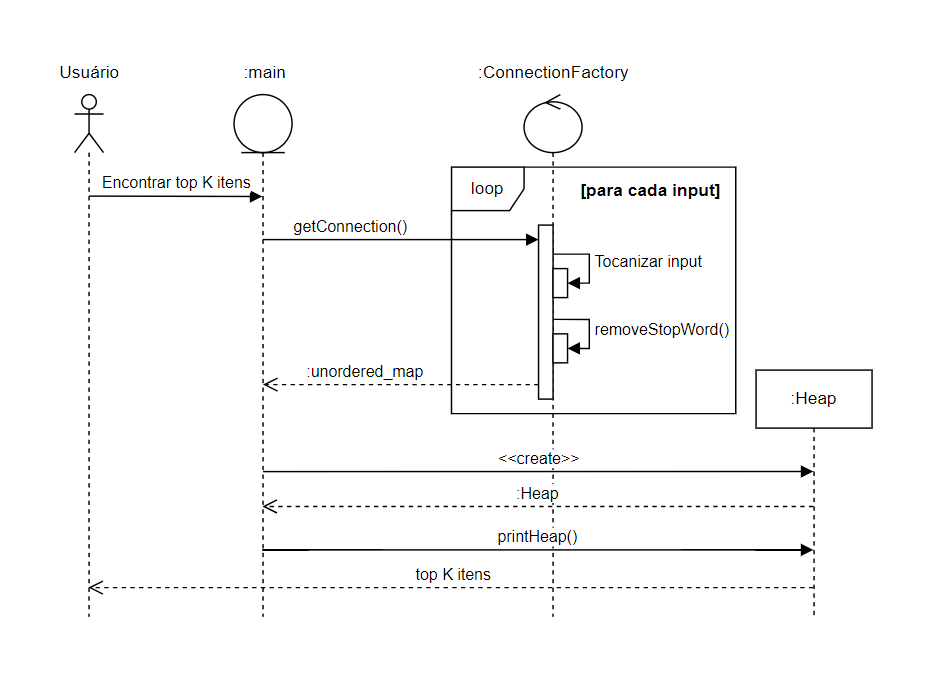
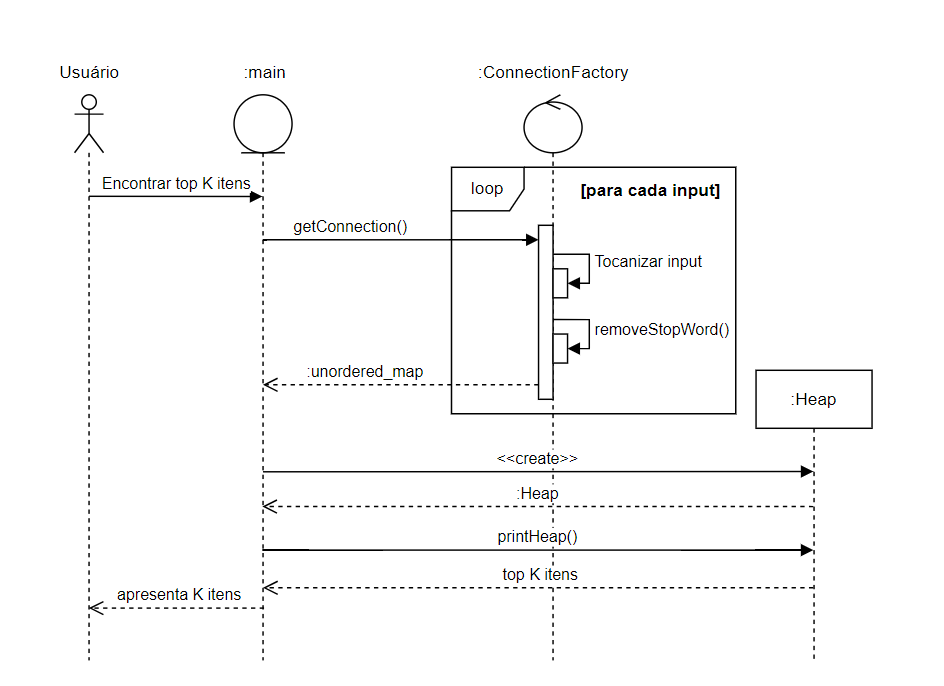
Commit_Luan-Update_readme

diff --git a/README.md b/README.md
@@ -32,75 +32,65 @@
     <h2>♟ Implementação</h2>
     <p>
         A questão apresentada nesse repositório é um exemplo clássico que pode ser solucionado utilizando-se hash e heap. Nesse sentido, utiliza-se o hash para contar a frequência de todos os itens, enquanto o heap se aplica na manutenção de uma lista dos <i>K</i> itens de maior valor.
-        </p>
-        <ul>
-            <li>
-                <div>
-                    <h3>Hash</h3>
-                    <p>
-                        As tabelas de dispersão ou tabelas hash, são estruturas projetadas para otimizar operações de busca por meio de indexação. Nessas tabelas, uma função de transformação é empregada para processar cada elemento de entrada, gerando assim uma chave correspondente. Essa chave é então usada para determinar a posição onde o elemento será armazenado na tabela.
-                    </p>
-                    <p>
-                        De forma geral, essa função hash é representada como <i>f( xy ) = [1, . . ., T]</i>, em que um subconjunto do conjunto de entrada, com tamanho <i>T</i>, é mapeado para a posição <i>xy</i> na tabela. É importante notar que existem várias maneiras de implementar essa função, tais como o método do resto da divisão, método do meio do quadrado, e entre outros.
-                    </p>
-                    <p>
-                        Neste projeto, a estutura de tabela hash escolhida foi a classe <a href="https://cplusplus.com/reference/unordered_map/unordered_map/" target="_blank"> std::unordered_map</a> da biblioteca padrão C++, a qual é uma boa opção para grandes conjuntos de dados em que a ordem de inserção não faz diferença. Apensar de ser uma estrtura simples de usar, suas funções podem variar de acordo com o compilador utilizado.
-                    </p>
-                    <p>
-                        No caso do GCC (compilador empregado nesse sistema), o unordered_map é considerado uma hash aberta, cuja a função de transformação é uma técnica chamada "hash combinado" que envolve a aplicação de uma série de operações de mistura (bitwise XOR, shift e multiplicação) para espalhar bem os bits da chave original e minimizar as chances de colisões.
-                    </p>
-                    <p>
-                        Enfim, com as condições adequadas ao conjunto de dados, o custo de uma tabela hash pode alcançar tempos de <b><i>θ( 1 )</i></b>, o qual se refere ao melhor tempo de execução / melhor caso. Em um caso médio teremos algo próximo de <b><i>θ( 1+N / T )</i></b> e no pior caso <b><i>θ( n )</i></b>.
-                    </p>
-                </div>
-            </li>
-            <li>
-                <div>
-                    <h3>Heap</h3>
-                    <p>
-                        A heap é um tipo abstrato de dados conhecido como fila de prioridades que armazena os elementos, cada um associado a uma determinada precedência. Esse modelo torna-se interessante para o projeto por possuir a particularidade de prover um acesso rápido ao elemento com a maior (ou menor) prioridade.
-                    </p>
-                    <p>
-                        Uma heap é frequentemente representada por um vetor (ou array) que simula uma árvore binária completa e ordenada. Dessa maneira, o primeiro elemento no vetor é sempre a raiz da árvore e cada nó pai tem dois nós filhos. Por exemplo, se o nó pai está no índice i, seus filhos estão nos índices <i>2 * i + 1</i> (filho esquerdo) e <i>2 * i + 2</i> (filho direito).
-                    </p>
-                    <p>
-                        Existem dois tipos principais de heaps: 
-                        <ol>
-                            <li>
-                                Max Heap (Heap Máximo): Neste tipo de heap, o valor de cada nó é maior ou igual ao valor de seus filhos. Isso significa que o elemento de maior prioridade está no topo da heap.
-                            </li>
-                            <li>
-                                Min Heap (Heap Mínimo): Neste tipo de heap, o valor de cada nó é menor ou igual ao valor de seus filhos. Isso significa que o elemento de menor prioridade está no topo da heap.
-                            </li>
-                        </ol>
-                    </p>
-                    <p>
-                        Em ultima análise, a propriedade fundamental de uma heap é que ela mantém essa ordenação parcial durante todas as operações de inserção e remoção. Isso permite que as operações de sejam eficientes, geralmente executadas em tempo <b><i>θ(log n)</i></b>, onde n é o número de elementos na heap.
-                    </p>
-                </div>
-            </li>
-        </ul>
-        <!-- • Crie uma tabela de dispersão (hash) para contar a frequência de cada elemento tokenizado da coleção de dados de entrada.
-        • Crie uma árvore de prioridades (heap) de tamanho k e insira os primeiros k elementos do
-        hash nela.
-        1. Para cada elemento restante na hash, compare a contagem com o menor valor do
-        heap.
-        2. Se a contagem for maior do que o menor valor da heap, remova o menor valor, insira
-        o novo elemento e refaça a estrutura.
-        3. Caso contrário, ignore o elemento e vá para o próximo.
-        • No final, a heap conterá os k elementos com maiores valores (frequências) da coleção
-        de dados. Então, imprima-os em ordem crescente.
-        Esse algoritmo é uma combinação eficiente do uso de hash para contar a frequência dos
-        elementos e heap para manter a lista dos k elementos com maiores valores. Sua complexidade,
-        caso implementado adequadamente, é de O(nlogk), onde n é o tamanho da coleção de dados
-        e k o número de itens mais relevantes. -->
-        <p>
-            Depois de conhecer as estruturas utilizadas nesse projeto
-        </p>
-        <p align="center">
-        <img src="img/img2.png">
-        <br><br><strong>Figura 2:</strong> Exemplo de como inserir arquivos de entrada
     </p>
+    <ul>
+        <li>
+            <div>
+                <h3>Hash</h3>
+                <p>
+                    As tabelas de dispersão ou tabelas hash, são estruturas projetadas para otimizar operações de busca por meio de indexação. Nessas tabelas, uma função de transformação é empregada para processar cada elemento de entrada, gerando assim uma chave correspondente. Essa chave é então usada para determinar a posição onde o elemento será armazenado na tabela.
+                </p>
+                <p>
+                    De forma geral, essa função hash é representada como <i>f( xy ) = [1, . . ., T]</i>, em que um subconjunto do conjunto de entrada, com tamanho <i>T</i>, é mapeado para a posição <i>xy</i> na tabela. É importante notar que existem várias maneiras de implementar essa função, tais como o método do resto da divisão, método do meio do quadrado, e entre outros.
+                </p>
+                <p>
+                    Neste projeto, a estutura de tabela hash escolhida foi a classe <a href="https://cplusplus.com/reference/unordered_map/unordered_map/" target="_blank"> std::unordered_map</a> da biblioteca padrão C++, a qual é uma boa opção para grandes conjuntos de dados em que a ordem de inserção não faz diferença. Apensar de ser uma estrtura simples de usar, suas funções podem variar de acordo com o compilador utilizado.
+                </p>
+                <p>
+                    No caso do GCC (compilador empregado nesse sistema), o unordered_map é considerado uma hash aberta, cuja a função de transformação é uma técnica chamada "hash combinado" que envolve a aplicação de uma série de operações de mistura (bitwise XOR, shift e multiplicação) para espalhar bem os bits da chave original e minimizar as chances de colisões.
+                </p>
+                <p>
+                    Enfim, com as condições adequadas ao conjunto de dados, o custo de uma tabela hash pode alcançar tempos de <b><i>θ( 1 )</i></b>, o qual se refere ao melhor tempo de execução/melhor caso. Em um caso médio teremos algo próximo de <b><i>θ( 1+N / T )</i></b> e no pior caso <b><i>θ( n )</i></b>.
+                </p>
+            </div>
+        </li>
+        <li>
+            <div>
+                <h3>Heap</h3>
+                <p>
+                    A heap é um tipo abstrato de dados conhecido como fila de prioridades que armazena os elementos, cada um associado a uma determinada precedência. Esse modelo torna-se interessante para o projeto por possuir a particularidade de prover um acesso rápido ao elemento com a maior (ou menor) prioridade.
+                </p>
+                <p>
+                    Uma heap é frequentemente representada por um vetor (ou array) que simula uma árvore binária completa e ordenada. Dessa maneira, o primeiro elemento no vetor é sempre a raiz da árvore e cada nó pai tem dois nós filhos. Por exemplo, se o nó pai está no índice i, seus filhos estão nos índices <i>2 * i + 1</i> (filho esquerdo) e <i>2 * i + 2</i> (filho direito).
+                </p>
+                <p>
+                    O tipo heap adotado nesse sistema é apresentado como Max Heap (Heap Máximo): A principal característica dessa heap é que o valor de cada nó é maior ou igual ao valor de seus filhos. Isso significa que o elemento de maior prioridade sempre está no topo da heap.
+                </p>
+                <p>
+                    Em ultima análise, a propriedade fundamental de uma heap é que ela mantém essa ordenação parcial durante todas as operações de inserção e remoção. Isso permite que as operações de sejam eficientes, geralmente executadas em tempo <b><i>θ(log n)</i></b>, onde n é o número de elementos na heap.
+                </p>
+            </div>
+        </li>
+    </ul>
+    <p>
+        Com um entendimento das principais estruturas de dados frequentemente empregadas para abordar a problemática, foi possível elaborar uma estratégia que otimiza o tempo computacional. No entanto, essa abordagem resulta em uma demanda substancial por armazenamento em memória, representando um compromisso entre a eficiência do processamento e a utilização elevada de recursos de memória. Observe a tatica implementada na Figura 2.
+    </p>
+    <p align="center">
+        <img src="img/img2.png">
+        <br><br><strong>Figura 2:</strong> Diagrama de sequência do sistema top K itens
+        </p>
+    <p>
+        A estratégia se fundamenta em um objeto de acesso aos dados (DAO), representado pela classe <code>ConnectionFactory</code>. Esse objeto tem a responsabilidade de executar todas as ações associadas aos dados de entrada. O propósito central do DAO é estabelecer uma tabela de dispersão (hash) para computar a frequência de cada palavra de conteúdo tokenizada na coleção de informações de entrada.
+    </p>
+    <p>
+        Ao dispor de um conjunto completo de palavras, juntamente com suas respectivas frequências de ocorrência nos inputs, uma abordagem eficaz para a identificação dos K itens mais relevantes consiste em armazenar essas informações em uma Max Heap. Nessa estrutura, a prioridade é estabelecida com base no número de ocorrências das palavras, possibilitando uma recuperação eficaz dos itens mais frequentes.
+    </p>
+    <p>
+        Sendo assim, é criada uma heap para acomodar elementos do tipo <code>pair(string, int)</code>, em que <code>pair.first</code> representa a palavra e <code>pair.second</code> denota a frequência associada a cada palavra. Com base nisso, a questão é solucionada, visto que podemos empregar as propriedades da heap para localizar os itens de maior prioridade
+    </p>
+    <p>
+        Portanto, a Max Heap surge como uma ferramenta crucial na consecução desse objetivo. No entanto, é importante ressaltar que essa estratégia pode consumir uma quantidade significativa de memória, pois a heap irá conter todas as palavras de conteudo presentes nos inputs de entrada.
+    </p>   
 </section>
 <section>
     <h2>🎞 Processamento</h2>
